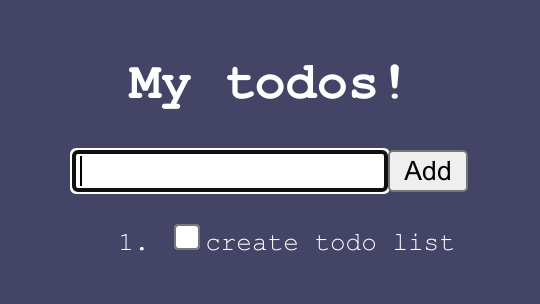
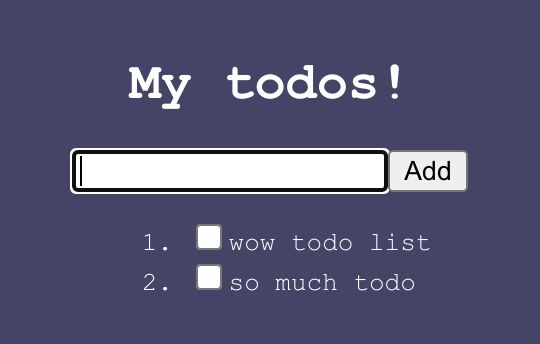
docs: tweak todo app default todos

diff --git a/index.html b/index.html
@@ -1,7 +1,7 @@
 <!DOCTYPE html> <html><!--
  Page saved with SingleFile 
  url: http://localhost:3000/ 
- saved date: Sun Apr 10 2022 05:39:44 GMT+0300 (Eastern European Summer Time)
+ saved date: Sun Apr 10 2022 06:12:04 GMT+0300 (Eastern European Summer Time)
 --><head><meta charset="utf-8">
     
 
@@ -37,7 +37,7 @@ export const App = create(({ $ }) =&gt; {
 })
 </code></pre>
 <p></p>
[2 lines of base64/hex data omitted]
 </p><pre><code class="language-tsx">/** @jsxImportSource mixter/jsx */
 import { attrs, css, event, events, mixter, props, shadow, state } from 'mixter'
 import { jsx, refs } from 'mixter/jsx'
@@ -71,7 +71,10 @@ export class TodoApp extends mixter(
     class {
       form?: HTMLFormElement
       textInput?: HTMLInputElement
-      todos: Todo[] = [{ name: 'create todo list', done: false }]
+      todos: Todo[] = [
+        { name: 'wow todo list', done: false },
+        { name: 'so much todo', done: false },
+      ]
       onTodoCleanup?: () =&gt; void
       onTodoAdd?: () =&gt; void
       onTodoChange?: (todo: Todo) =&gt; (

diff --git a/example/todo-app.tsx b/example/todo-app.tsx
@@ -31,7 +31,10 @@ export class TodoApp extends mixter(
     class {
       form?: HTMLFormElement
       textInput?: HTMLInputElement
-      todos: Todo[] = [{ name: 'create todo list', done: false }]
+      todos: Todo[] = [
+        { name: 'wow todo list', done: false },
+        { name: 'so much todo', done: false },
+      ]
       onTodoCleanup?: () => void
       onTodoAdd?: () => void
       onTodoChange?: (todo: Todo) => (

diff --git a/example/todo-app.html b/example/todo-app.html
@@ -834,7 +834,10 @@ attrs(class {
 props(class {
     form;
     textInput;
-    todos = [{ name: 'create todo list', done: false }];
+    todos = [
+        { name: 'wow todo list', done: false },
+        { name: 'so much todo', done: false },
+    ];
     onTodoCleanup;
     onTodoAdd;
     onTodoChange;

diff --git a/README.md b/README.md
@@ -32,7 +32,7 @@ export const App = create(({ $ }) => {
 ```
 
 </p>
-</details></ul></details><details id="example$todo-app" title="todo-app" open><summary><span><a href="#example$todo-app">#</a></span>  <code><strong>todo-app</strong></code></summary>  <ul><p></p>  <a href="https://stagas.github.io/mixter/example/todo-app.html"><img width="308.57142857142856" height="173.7142857142857" src="example/todo-app.png" style="max-width:100%"></img>  <p><strong>Try it live</strong></p></a>    <details id="source$todo-app" title="todo-app source code" ><summary><span><a href="#source$todo-app">#</a></span>  <code><strong>view source</strong></code></summary>  <a href="example/todo-app.tsx">example/todo-app.tsx</a>  <p>
+</details></ul></details><details id="example$todo-app" title="todo-app" open><summary><span><a href="#example$todo-app">#</a></span>  <code><strong>todo-app</strong></code></summary>  <ul><p></p>  <a href="https://stagas.github.io/mixter/example/todo-app.html"><img width="308.57142857142856" height="196.57142857142856" src="example/todo-app.png" style="max-width:100%"></img>  <p><strong>Try it live</strong></p></a>    <details id="source$todo-app" title="todo-app source code" ><summary><span><a href="#source$todo-app">#</a></span>  <code><strong>view source</strong></code></summary>  <a href="example/todo-app.tsx">example/todo-app.tsx</a>  <p>
 
 ```tsx
 /** @jsxImportSource mixter/jsx */
@@ -68,7 +68,10 @@ export class TodoApp extends mixter(
     class {
       form?: HTMLFormElement
       textInput?: HTMLInputElement
-      todos: Todo[] = [{ name: 'create todo list', done: false }]
+      todos: Todo[] = [
+        { name: 'wow todo list', done: false },
+        { name: 'so much todo', done: false },
+      ]
       onTodoCleanup?: () => void
       onTodoAdd?: () => void
       onTodoChange?: (todo: Todo) => (
